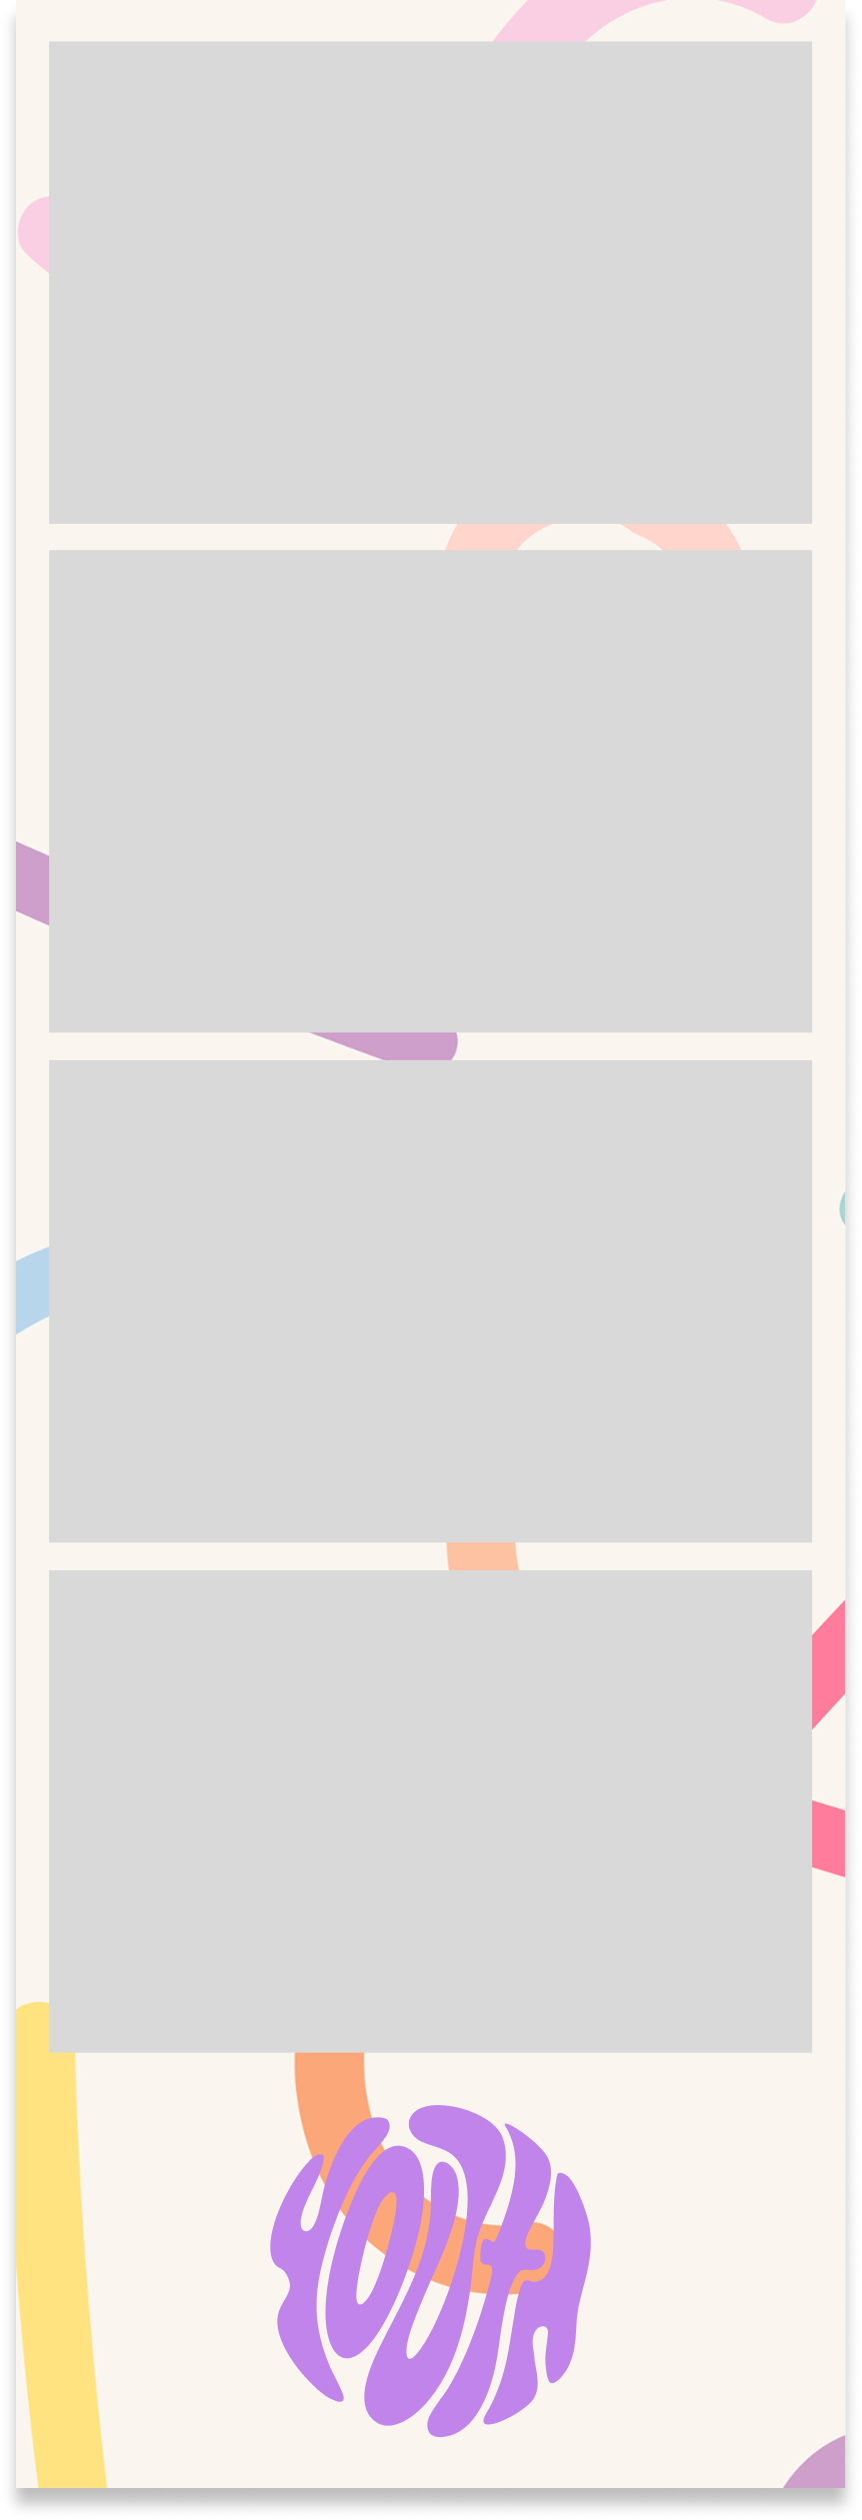
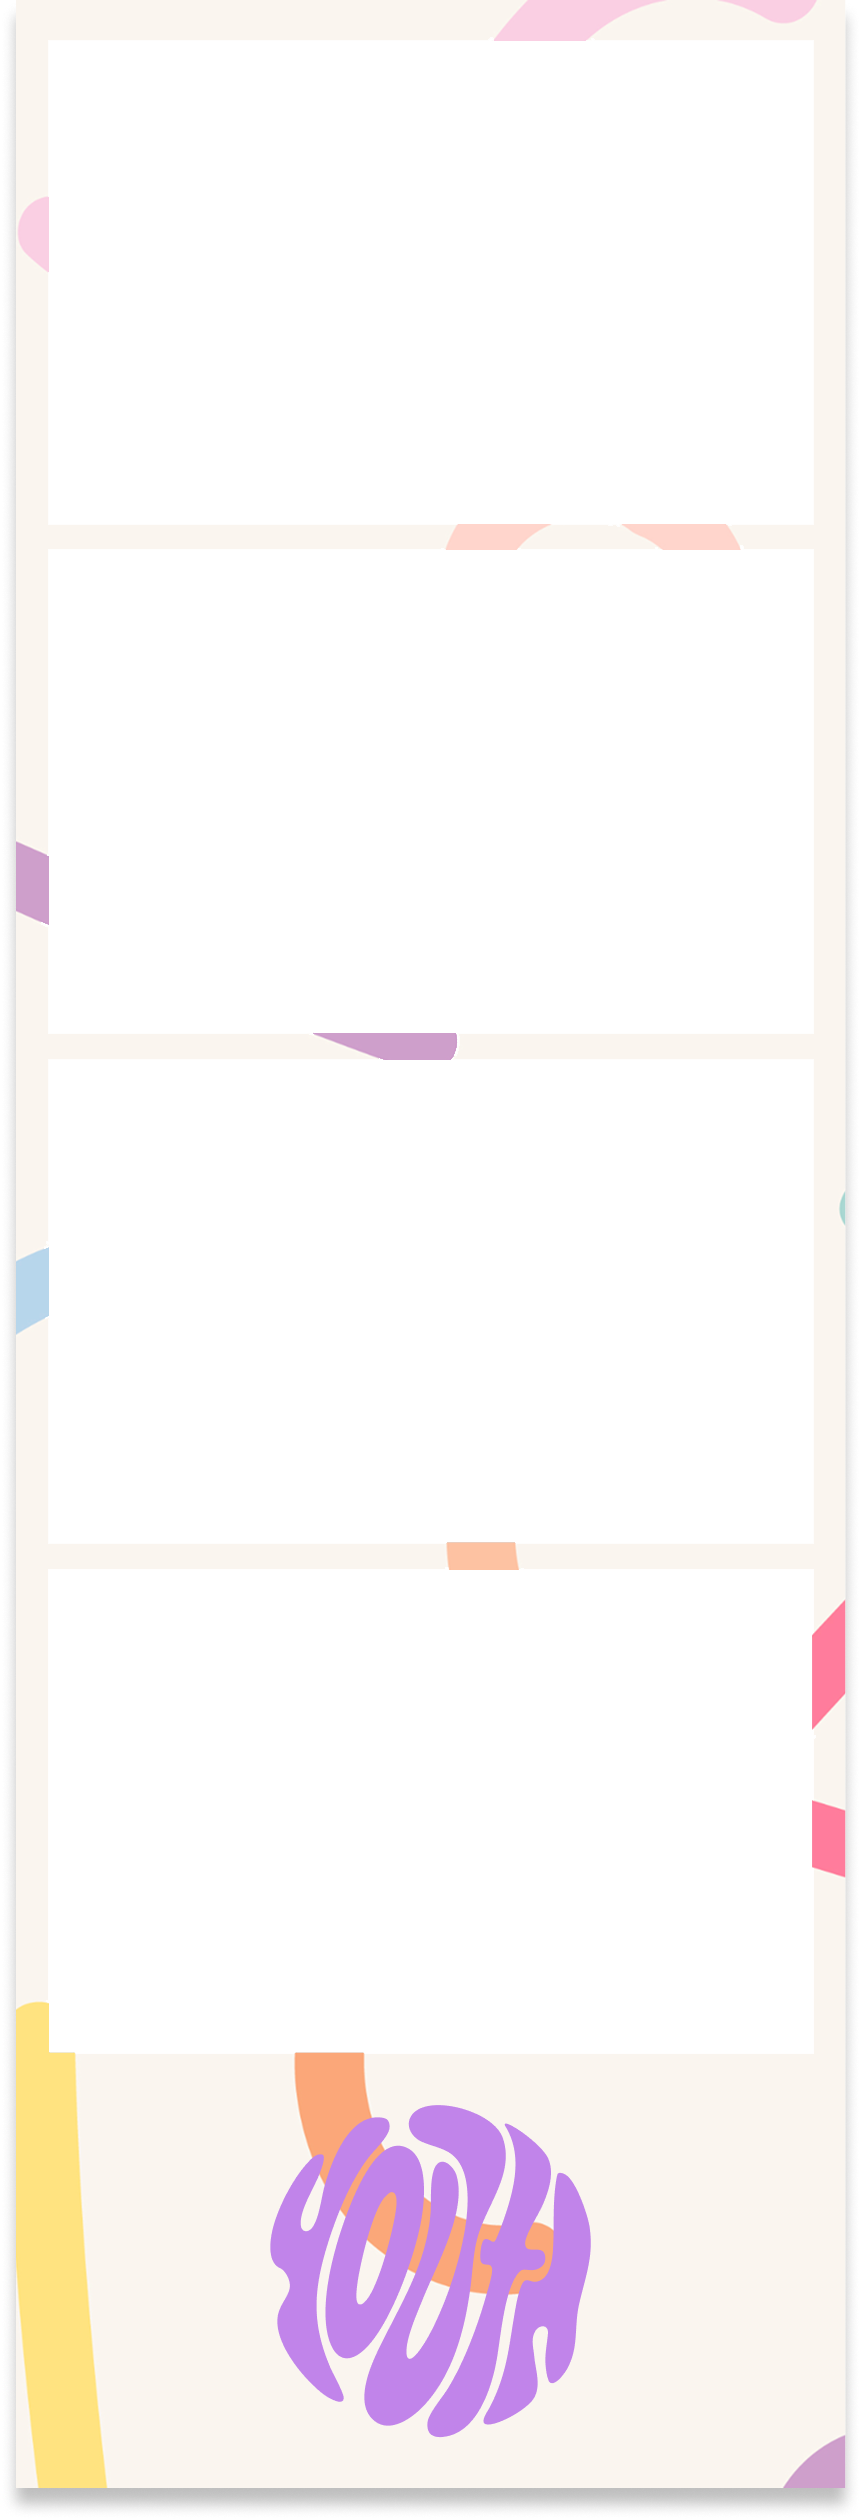
사진크기가 안맞음

diff --git a/frontend/src/codes/js/FrameSelect.js b/frontend/src/codes/js/FrameSelect.js
@@ -65,10 +65,11 @@ const FrameSelect = ({ selectedPhotos, onComplete, onBack }) => {
       const res = await fetch("http://192.168.200.144:5000/final", {
         method: "POST",
         headers: { "Content-Type": "application/json" },
+        mode: "cors",
         body: JSON.stringify({
           photos: selectedPhotos, // 4장 선택된 거
           grayscale: selectedPhotoColor === "color2", // 흑백 옵션
-          frameKey: selectedFrame,
+          frameKey: selectedSpecialFrame || selectedFrame,
           logoKey: selectedLogo,
           specialFrameKey: selectedSpecialFrame
         }),

diff --git a/frontend/src/codes/js/Start.js b/frontend/src/codes/js/Start.js
@@ -3,7 +3,7 @@ import React, { useState, useEffect } from 'react';
 import '../css/Start.css';
 
 const Start = ({ onComplete }) => {
-  const [countdown, setCountdown] = useState(3);
+  const [countdown, setCountdown] = useState(2);
   const [isComplete, setIsComplete] = useState(false);
 
   useEffect(() => {

diff --git a/frontend/src/codes/js/PhotoShoot.js b/frontend/src/codes/js/PhotoShoot.js
@@ -85,7 +85,7 @@ const PhotoShoot = ({ onComplete }) => {
         }
         return prev - 1;
       });
-    }, 500);
+    }, 100);
 
     return () => {
       if (timerIdRef.current) clearInterval(timerIdRef.current);

diff --git a/frontend/src/codes/css/FrameSelect.css b/frontend/src/codes/css/FrameSelect.css
@@ -62,7 +62,7 @@
   width: 350px;
   height: 550px;
   object-fit: contain;
-  z-index: 1;
+  z-index: 10; /*프레임이 사진보다 위로 올라와야함*/
 }
 
 .frameselect-frame-slots {

diff --git a/backend/app.py b/backend/app.py
@@ -9,7 +9,7 @@ from PIL import Image, ImageOps
 
 # Flask 앱을 생성합니다.
 app = Flask(__name__)
-CORS(app)
+CORS(app, resources={r"/*": {"origins": ["http://localhost:3000"]}})
 
 # 현재 파일(app.py)이 있는 폴더의 절대 경로를 가져옵니다.
 BASE_DIR = os.path.dirname(os.path.abspath(__file__))
@@ -54,17 +54,22 @@ def _open_url(url):
 
 # 1열 4컷 (2*6/ 600x1800) 생성
 def make_4cut(photo_urls, frame_path=None, grayscale=False):
-    W, H, M = 600, 1800, 20 # 사이즈: 2x6, 여백 20px
-    cell_w = W - M*2 # 한 칸의 가로
-    cell_h = (H - M*5) // 4 # 한 칸의 세로(4장 배치)
+    if not frame_path or not os.path.exists(frame_path):
+        raise ValueError("Frame not found")
+
+    frame_rgba = Image.open(frame_path).convert("RGBA")
+    W, H = frame_rgba.size
     canvas = Image.new("RGBA", (W, H), "white")
 
-    # URL → PIL.Image 변환
+    # 사진 불러오기
     imgs = [_open_url(u) for u in photo_urls]
     if grayscale:
         imgs = [ImageOps.grayscale(im).convert("RGB") for im in imgs]
 
-    # 4칸 위치계산
+    # 슬롯 계산
+    M = 40
+    cell_w = W - M * 2
+    cell_h = (H - M * 5) // 4
     positions = [
         (M, M),
         (M, M*2 + cell_h),
@@ -72,18 +77,16 @@ def make_4cut(photo_urls, frame_path=None, grayscale=False):
         (M, M*4 + cell_h*3)
     ]
 
-    # 사진 리사이징 후 합성
+    # 사진 붙이기
     for im, (x, y) in zip(imgs, positions):
         resized = ImageOps.fit(im, (cell_w, cell_h))
-        canvas.paste(resized, (x, y))
+        canvas.paste(resized.convert("RGBA"), (x, y))
 
-    # 프레임 PNG 합성
-    if frame_path and os.path.exists(frame_path):
-        frame = Image.open(frame_path).convert("RGBA").resize((W, H))
-        combined = Image.alpha_composite(canvas.convert("RGBA"), frame)
-        return combined.convert("RGB")
-
+    # 프레임 덮어쓰기
+    combined = Image.alpha_composite(canvas, frame_rgba)
+    return combined.convert("RGB")
     return canvas
+
 
 # 프린트용 네컷 2개를 좌우로 배치해서 합치기
 def make_print(strip: Image.Image):
@@ -112,7 +115,12 @@ def make_final():
         return jsonify({"message": "사진 4장이 필요합니다."}), 400
 
     # 1. 2*6/ 600x1800 1열 4컷 만들기
+    print(">>> 요청 frame_key:", frame_key)
     frame_path = FRAME_MAP.get(frame_key)
+    print(">>> frame_path:", frame_path)
+    if not frame_path or not os.path.exists(frame_path):
+        return jsonify({"message": f"프레임 경로 없음: {frame_key} → {frame_path}"}), 400
+
     strip = make_4cut(photos, frame_path, grayscale)
 
     # 2. 저장하기
